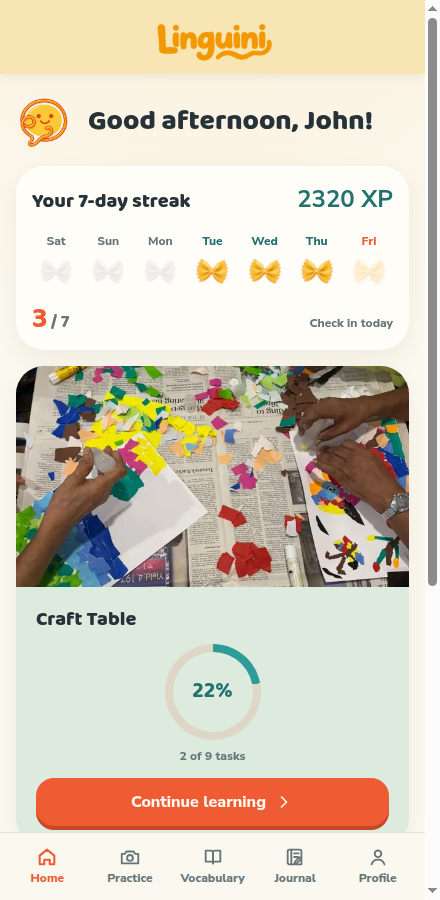
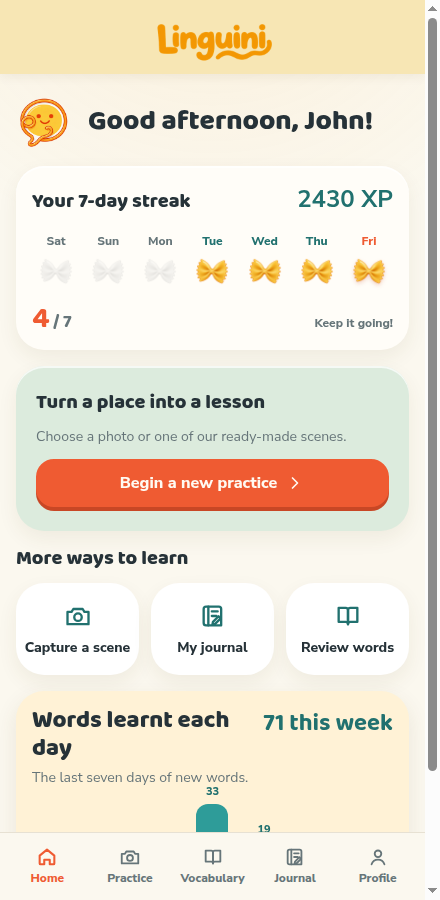
Describe two-way description practice and refresh progress and I-Spy screenshots

diff --git a/README.md b/README.md
@@ -23,8 +23,8 @@
 Most language apps teach a fixed syllabus of words you may never use. Linguini starts
 from a photo of your own day: take or upload a picture, and the app finds the objects in
 it, teaches the words for them in your target language, and then quizzes you on the
-scene by voice. The day ends as a journal entry, so your vocabulary history doubles as a
-diary of what you actually did.
+scene by having you describe it. The day ends as a journal entry, so your vocabulary
+history doubles as a diary of what you actually did.
 
 ## How a session works
 
@@ -36,18 +36,19 @@ diary of what you actually did.
 3. **Analysis & review** — the backend detects candidate objects in the image and saves
    them as a resumable draft. You confirm, remove or add objects before the lesson is
    built, so you control what you are taught.
-4. **Learn** — word cards for each confirmed object: translation, article and gender,
-   pronunciation (speech synthesis) and example usage.
-5. **I-Spy** — two-way speaking practice. Phase 1: Linguini names a word and you tap it in
-   the photo. Phase 2: you say what you see and the app checks you.
+4. **Learn** — word cards for each confirmed object: translation, article and gender, and
+   example usage.
+5. **I-Spy** — two-way description practice. Phase 1: Linguini describes an object and you
+   pick it out of the scene. Phase 2: you write your own clue for a target word and
+   Linguini guesses what you meant.
 6. **Summary & journal** — XP, new and reviewed words and streaks are persisted, and the
    session is written into your journal, which supports revisions and photo attachments.
 
 ## Features
 
 - Photo-led lessons from your own camera roll, plus curated preloaded scenes.
-- Speak-first practice with pronunciation playback and spoken answer checking, and a mic
-  test so audio problems surface before a session.
+- Description-led practice in both directions: comprehend Linguini's clues, then write
+  your own and have them checked.
 - Vocabulary list with per-word progress, encounters and spaced review signals.
 - Journal with daily entries, edits and image attachments.
 - Progress dashboard: XP, streaks, words learned per language.
@@ -65,14 +66,11 @@ Captured from the running app (phone width) against the live database.
 
 | Vocabulary | Journal | Progress |
 | --- | --- | --- |
-| <img src="docs/screenshots/vocabulary.png" alt="Vocabulary screen grouped by scene with playback buttons" width="240" /> | <img src="docs/screenshots/journal.png" alt="Monthly journal with photo entries" width="240" /> | <img src="docs/screenshots/progress.png" alt="Progress screen with words learned, mastered and scenes" width="240" /> |
+| <img src="docs/screenshots/vocabulary.png" alt="Vocabulary screen grouped by the scenes the words came from" width="240" /> | <img src="docs/screenshots/journal.png" alt="Monthly journal with photo entries" width="240" /> | <img src="docs/screenshots/progress.png" alt="Progress screen with words learned, mastered and scenes" width="240" /> |
 
-| Profile | I-Spy (**placeholder**) |
-| --- | --- |
-| <img src="docs/screenshots/profile.png" alt="Profile screen with learning setup and permissions" width="240" /> | <img src="docs/screenshots/ispy-placeholder.png" alt="Placeholder image for the I-Spy screenshot" width="240" /> |
-
-The I-Spy image is a **labelled placeholder**: that screen only unlocks once a session's
-learning tasks are finished, so it still needs a real capture.
+| I-Spy · Linguini's clues | I-Spy · your turn | Profile |
+| --- | --- | --- |
+| <img src="docs/screenshots/ispy-clues.png" alt="I-Spy phase one: a clue from Linguini and the objects to pick from" width="240" /> | <img src="docs/screenshots/ispy-your-turn.png" alt="I-Spy phase two: writing your own clue for a target word" width="240" /> | <img src="docs/screenshots/profile.png" alt="Profile screen with learning setup and permissions" width="240" /> |
 
 ## Launch film
 
